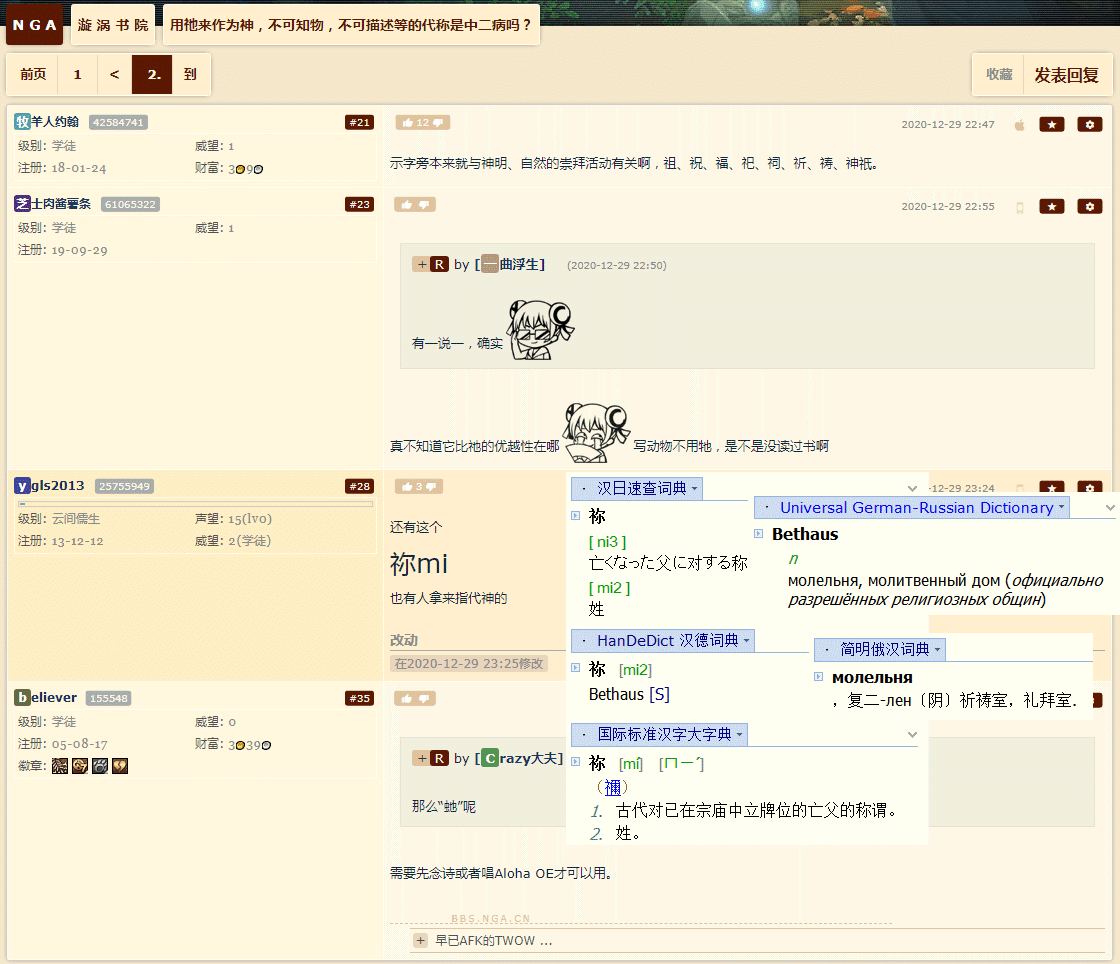
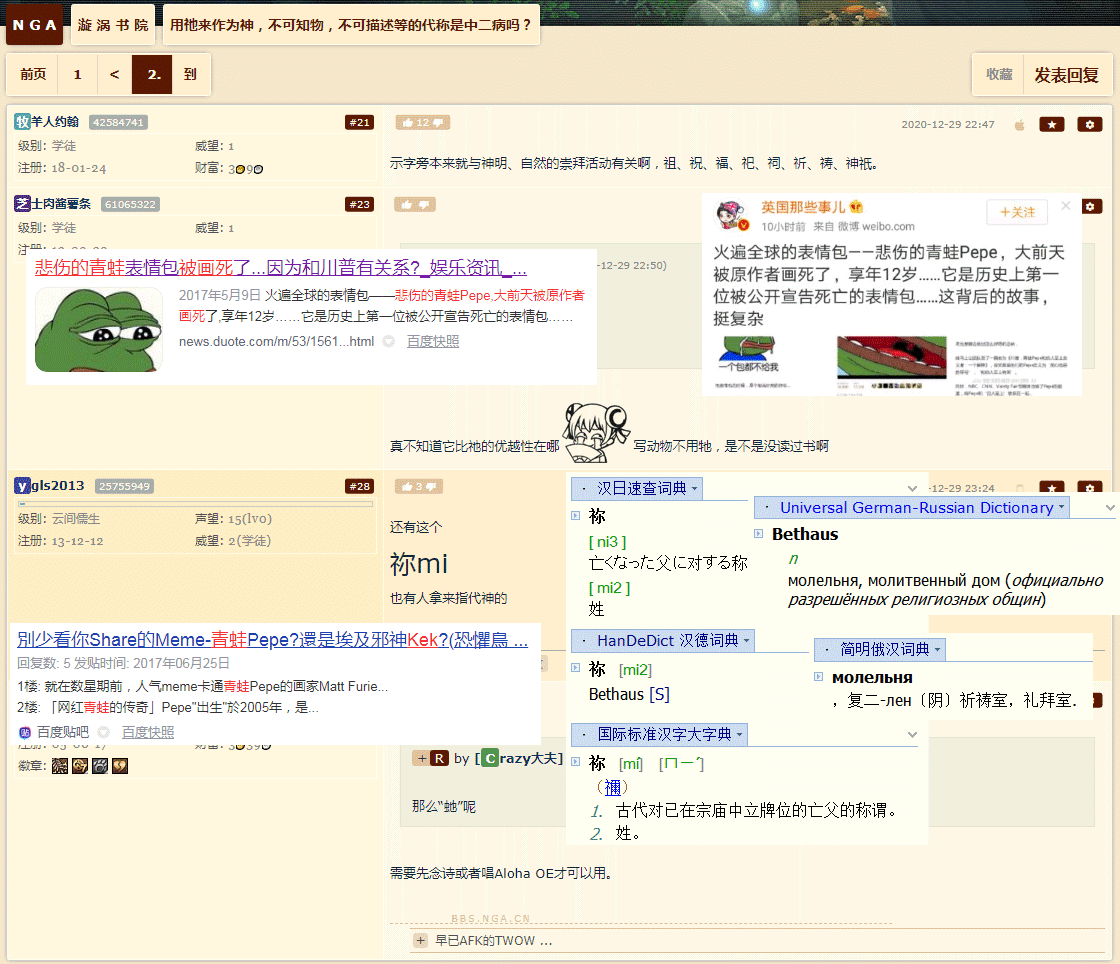
排版
Former-commit-id: b6e4788093067be9d88f0cd9f143810df1f55818

diff --git a/fantasy/fanism/000_excursus/000-140.html b/fantasy/fanism/000_excursus/000-140.html
@@ -81,6 +81,7 @@
                 <figure><img src="../../../DATA/20200801-050.png" /></figure>
                 <figure><img src="../../../DATA/20200801-051.png" /></figure>
             </div>
+            <img src="../../../DATA/20201230-001_PepeKekRIP.png" />
         </blockquote>
         <p>补充摘抄「<abbr class="who">默罕默德·阿里</abbr><u>帕夏</u>」：</p>
         <blockquote class="outside">
@@ -95,9 +96,10 @@
             <p>他被葬在他建造的大清真寺内，<mark>然而其葬礼却简单得很，并不符合他的地位。</mark></p>
             <p>穆罕默德·阿里生时在奥斯曼帝国内宗教属性是区分人最重要的标志。奥斯曼帝国内要明确区分民族，尤其是在多民族生活的城市里非常困难。<mark>历史纪录表明穆罕默德·阿里可能是阿尔巴尼亚人，但他可能也有马其顿、土耳其或者库德人前辈。</mark>但是他的确实民族属性很难无疑地确定。而且埃及对穆罕默德·阿里的历史纪录里有的称他为土耳其人，有的称他为阿尔巴尼亚人不等。</p>
             <p>总而言之不是阿拉伯人不是希伯来人不是阿姆哈拉人……一言以蔽之「马瓦力」：</p>
-            <figure>
-                <img src="../../../DATA/20200801-013.png" />
-            </figure>
+            <div class="image-group">
+                <figure><img src="../../../DATA/20200801-013.png" /></figure>
+                <figure><img src="../../../DATA/20201230-001_PepeKekRIP.png" /></figure>
+            </div>
         </blockquote>
         <p>以及「<abbr class="where">奥特曼</abbr>－<abbr class="who">沙特</abbr>战争」：</p>
         <blockquote class="outside">
@@ -110,6 +112,7 @@
                 <figure><img src="../../../DATA/20200801-019.png" /></figure>
                 <figure><img src="../../../DATA/20200801-002.png" /></figure>
             </div>
+            <img src="../../../DATA/20201230-001_PepeKekRIP.png" />
         </blockquote>
         <p>简单说，从当时的「党和政府」角度观察，无论是<abbr class="where">波斯</abbr>还是<abbr class="where">奥特曼</abbr>，都会将<abbr class="who">沙特</abbr>家族和<abbr class="who">谢赫</abbr>家族评价为「<b>傻哔绿人<s>董存瑞</s>发动自杀式恐怖袭击，反政府武装传播极端思想</b>」「<b>傻哔绿人<s>邓世昌</s>裹胁全军发动自杀式恐怖袭击未果沦为笑柄，极端组织已渗透至我军高层</b>」……总而言之砥砺奋进八年来伪装成根红苗正忠君爱国的童年才俊的色目情报掮客以大拇指搓手机形式弘扬的主旋律和传播的正能量，都会在正文当中体现出来，原汁原味原话奉还，一个字都不带少的。</p>
         <p>摘抄排版之后，发现国际一流和谐宜居之都「高学历精英社交圈」正在首页今日头条位置醒目应景推荐国家机密兼宇宙奥秘：</p>
